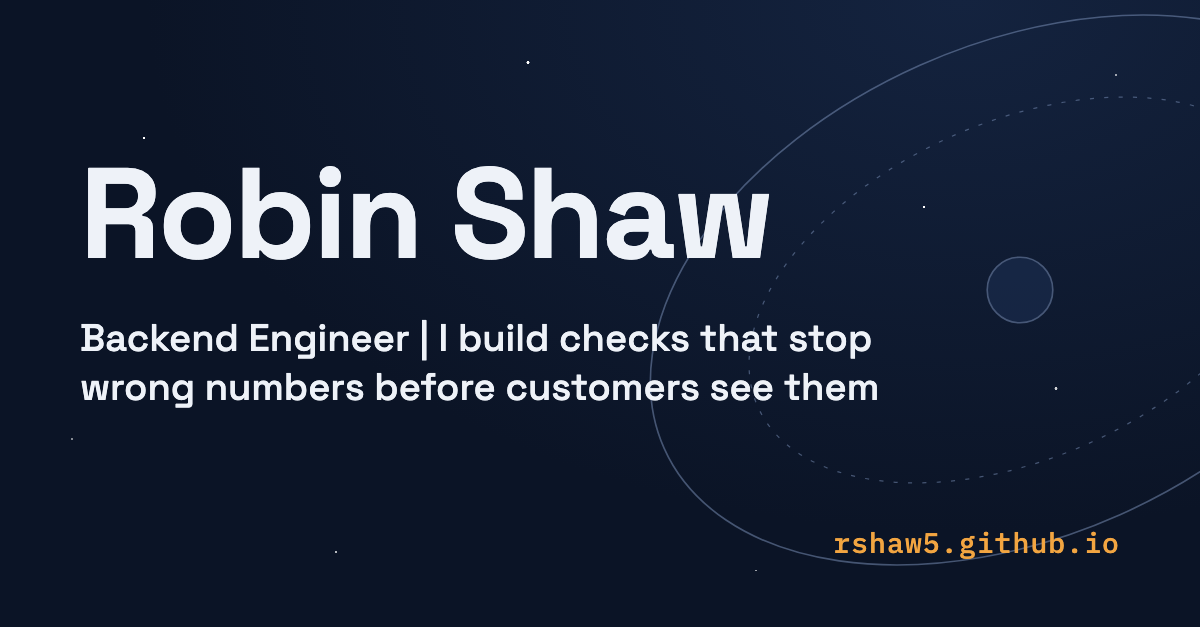
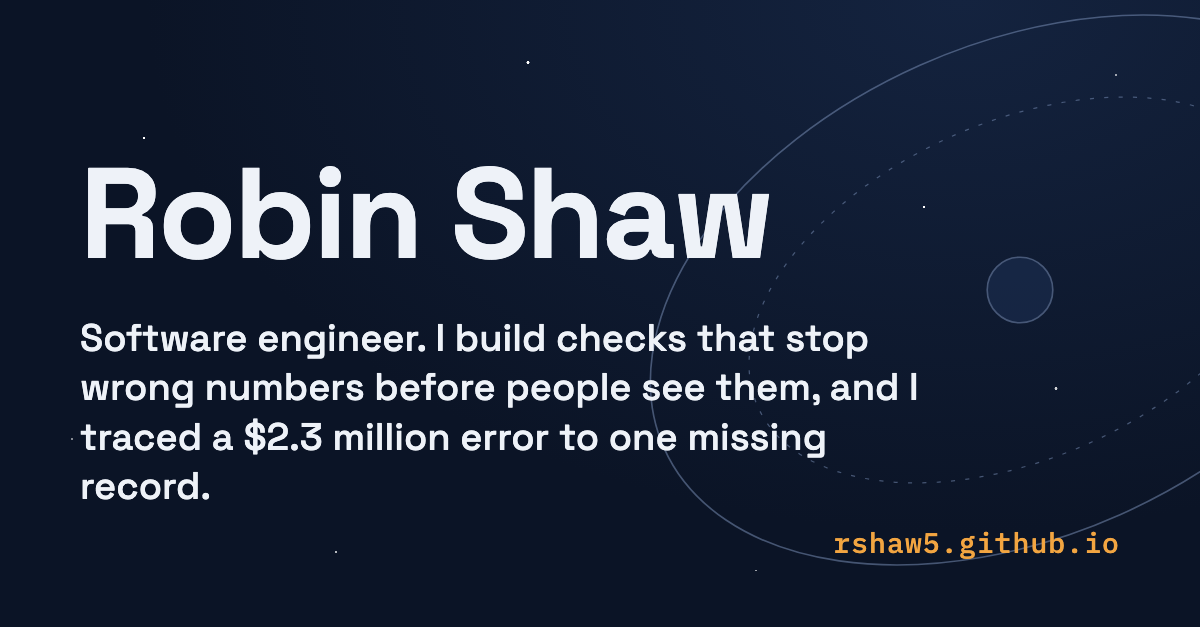
Use software engineer label in pitch, title and og image

Changed region(s): [[0.0617, 0.5758, 0.7708, 0.7273], [0.0617, 0.5152, 0.74, 0.5758], [0.0617, 0.7576, 0.185, 0.8182]]

diff --git a/index.html b/index.html
@@ -3,13 +3,13 @@
 <head>
 <meta charset="utf-8">
 <meta name="viewport" content="width=device-width, initial-scale=1">
-<title>Robin Shaw | Backend Engineer</title>
-<meta name="description" content="I'm a backend engineer. I was the sole owner of a production accounting system, and I traced a $2.3 million error back to one missing record.">
+<title>Robin Shaw | Software Engineer</title>
+<meta name="description" content="I'm a software engineer. I was the sole owner of a production accounting system, and I traced a $2.3 million error back to one missing record.">
 <link rel="canonical" href="https://rshaw5.github.io/">
 <meta property="og:type" content="website">
 <meta property="og:url" content="https://rshaw5.github.io/">
-<meta property="og:title" content="Robin Shaw | Backend Engineer">
-<meta property="og:description" content="I'm a backend engineer. I was the sole owner of a production accounting system, and I traced a $2.3 million error back to one missing record.">
+<meta property="og:title" content="Robin Shaw | Software Engineer">
+<meta property="og:description" content="I'm a software engineer. I was the sole owner of a production accounting system, and I traced a $2.3 million error back to one missing record.">
 <meta property="og:image" content="https://rshaw5.github.io/og-image.png">
 <meta property="og:image:width" content="1200">
 <meta property="og:image:height" content="627">
@@ -241,7 +241,7 @@
 			<p class="eyebrow">Backend · data correctness</p>
 			<h1>Robin Shaw</h1>
 			<p class="headline">Software engineer. I build checks that stop wrong numbers before people see them, and I traced a $2.3 million error to one missing record.</p>
-			<p class="pitch">I'm a backend engineer. I was the sole owner of a production accounting system, and I traced a $2.3 million error back to one missing record.</p>
+			<p class="pitch">I'm a software engineer. I was the sole owner of a production accounting system, and I traced a $2.3 million error back to one missing record.</p>
 			<div class="actions">
 				<a class="btn btn-primary" href="https://www.linkedin.com/in/rshaw5/">Message me on LinkedIn</a>
 				<a class="btn btn-ghost" href="https://github.com/rShaw5">GitHub</a>
